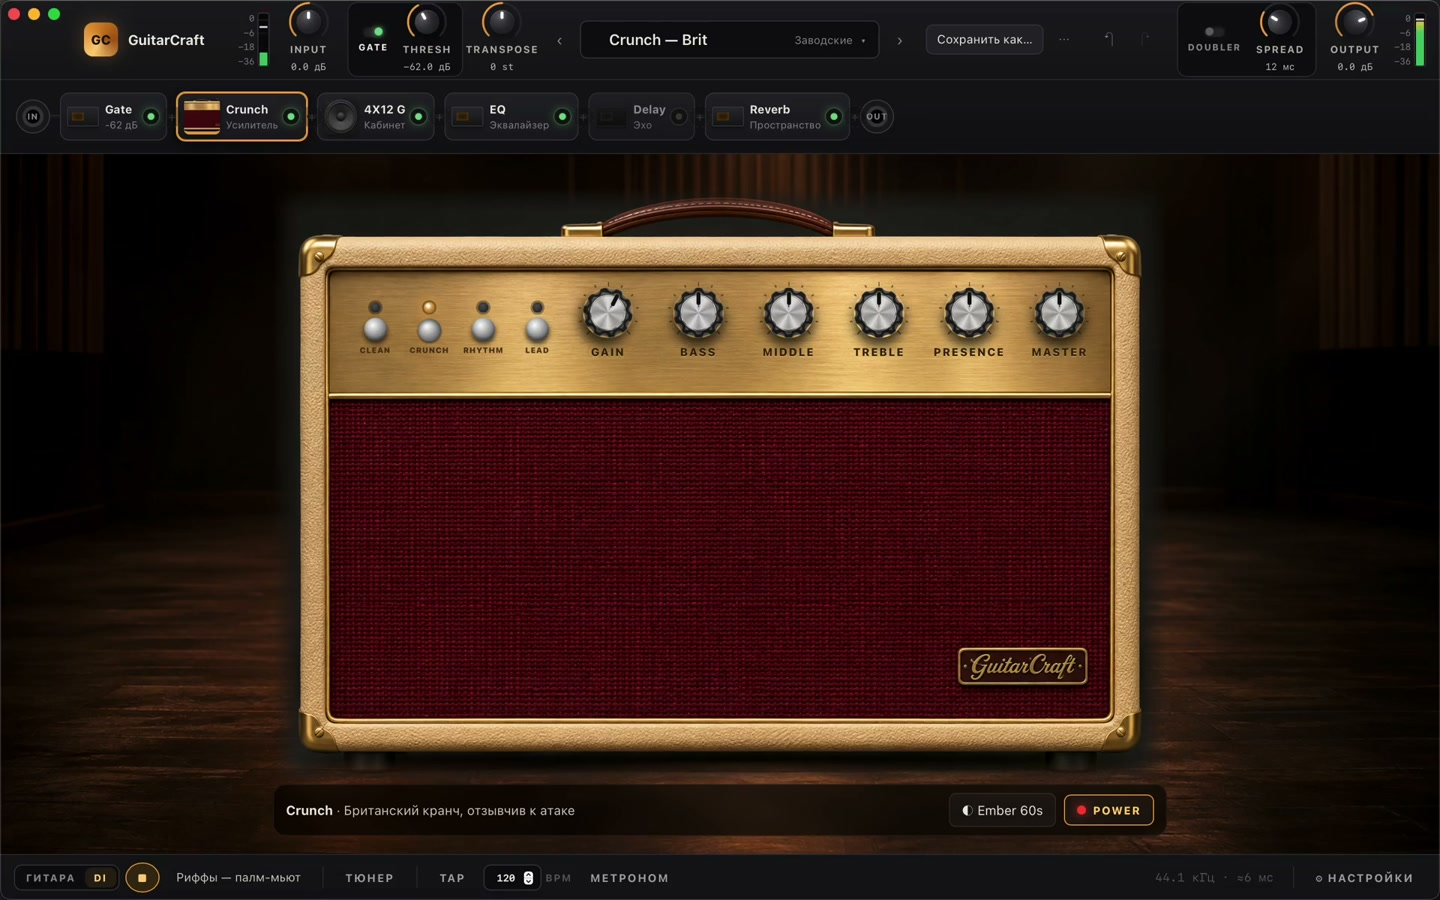
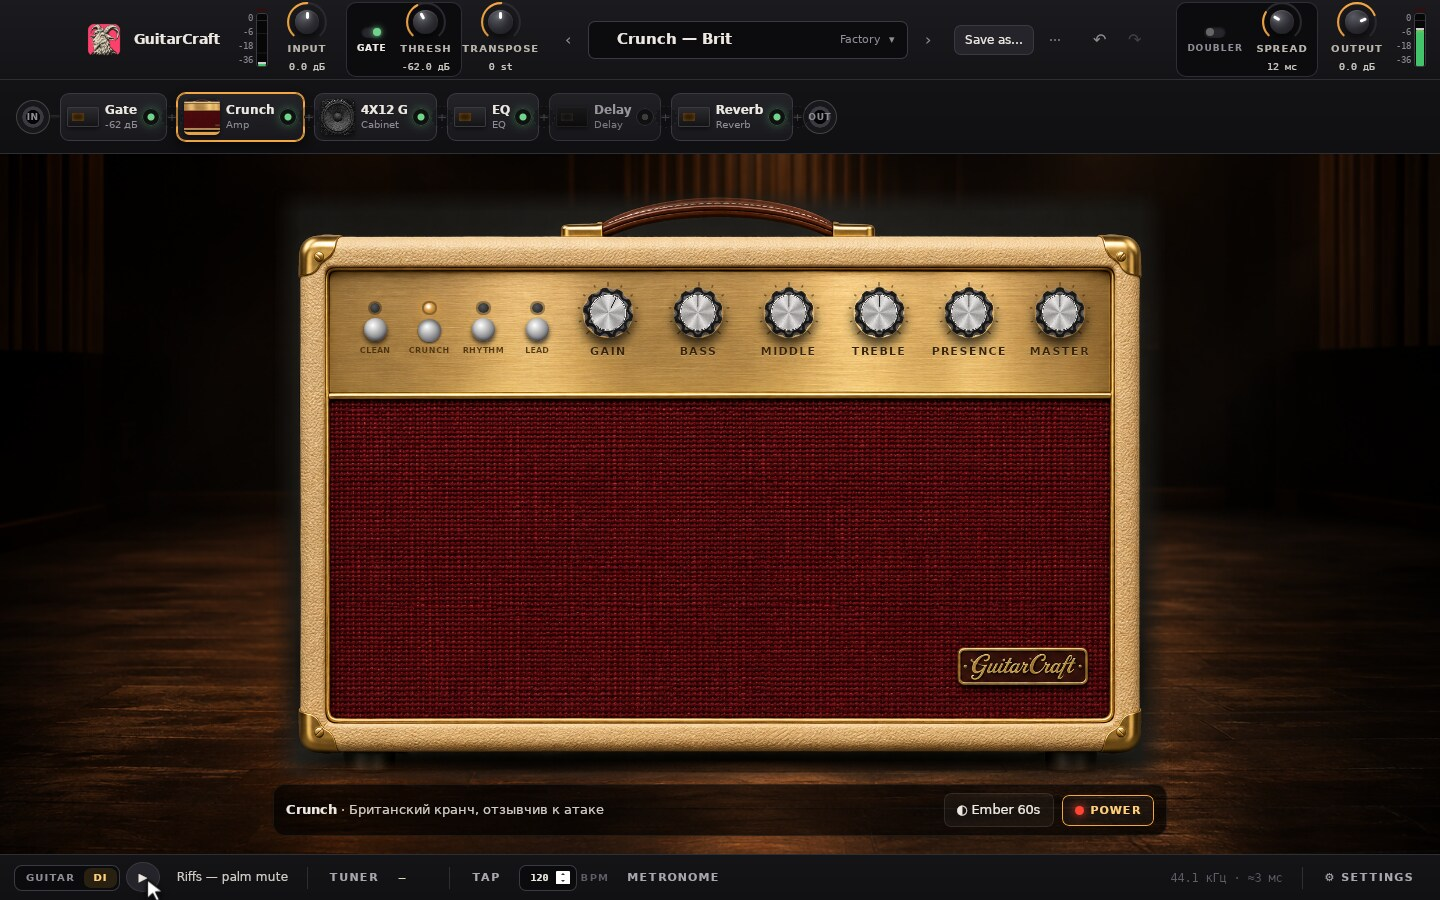
Show GuitarCraft features and installers in the product README

diff --git a/README.md b/README.md
@@ -1,8 +1,10 @@
+<img src="src-tauri/icons/128x128.png" width="76" height="76" alt="GuitarCraft icon">
+
 # GuitarCraft
 
 A desktop guitar amp and pedalboard with a Rust audio engine. Plug in a guitar, build a signal chain, and save the sound as a preset.
 
-[**Download GuitarCraft**](https://github.com/DimkaRapirka/GuitarCraft-Desktop/releases/latest) · [Features](#features) · [Get started](#get-started) · [Build from source](#build-from-source)
+[**Download GuitarCraft**](https://github.com/DimkaRapirka/GuitarCraft-Desktop/releases/latest) · [Features](#features) · [Get started](#get-started) · [Downloads](#downloads) · [Build from source](#build-from-source)
 
 <img src="docs/images/amplifier.jpg" width="100%" alt="GuitarCraft's amplifier studio with its signal chain and Crunch channel">
 
@@ -18,11 +20,16 @@ A desktop guitar amp and pedalboard with a Rust audio engine. Plug in a guitar, 
 
 ## Features
 
-### Build your signal chain
-
-Put a fuzz ahead of the amp or move an echo after the cabinet. Reorder blocks, bypass individual effects, and save the routing with your preset. Fuzz Factory includes Volume, Gate, Comp, Drive, and Stab.
-
-<img src="docs/images/pedalboard-prints.jpg" width="100%" alt="Stompboxes in GuitarCraft with illustrated faces, footswitches, and adjustable knobs">
+<table>
+  <tr>
+    <td width="59%"><img src="docs/images/pedalboard.jpg" alt="Pedalboard with Clari(not) Clean, Fuzz Factory, and Crown Drive"></td>
+    <td width="41%"><h3>Build your signal chain</h3><p>Put a fuzz ahead of the amp or move an echo after the cabinet. Reorder blocks, bypass individual effects, and save the routing with your preset.</p></td>
+  </tr>
+  <tr>
+    <td width="59%"><img src="docs/images/catalog.jpg" alt="Fuzz Factory selected in the searchable pedal catalog, with the audition and add buttons visible"></td>
+    <td width="41%"><h3>Audition a pedal in context</h3><p>Search by name or effect, then hear the pedal in your rig before adding it. Fuzz Factory gives you Volume, Gate, Comp, Drive, and Stab.</p></td>
+  </tr>
+</table>
 
 ### Voice the amp and cabinet
 
@@ -48,9 +55,9 @@ Enable the local MCP server in Settings to let a compatible client find pedals, 
 | --- | --- | --- |
 | macOS · Apple Silicon | DMG | Open the image and drag GuitarCraft to Applications. The bundle uses ad hoc signing. |
 | Windows · x64 | EXE | Run the installer. It uses Microsoft WebView2. |
-| Linux · x86-64 | DEB | Install on Ubuntu 22.04 or on a compatible Debian-based system with WebKitGTK 4.1. |
+| Linux · x86-64 | DEB | On Ubuntu 22.04 or a compatible Debian-based system, run `sudo apt install ./GuitarCraft_0.10.0_amd64.deb`. |
 
-Find installers and SHA-256 checksums in the [latest release](https://github.com/DimkaRapirka/GuitarCraft-Desktop/releases/latest).
+Find the installers and SHA-256 checksums in the [latest release](https://github.com/DimkaRapirka/GuitarCraft-Desktop/releases/latest).
 
 ## Build from source
 
@@ -63,3 +70,7 @@ npm run bundle
 ```
 
 The desktop shell uses Tauri and WebAssembly. The Rust audio engine processes the signal locally through Core Audio, WASAPI, or ALSA. Installers include the GuitarCraft MCP sidecar.
+
+## Interface languages
+
+GuitarCraft opens in English by default. Choose **English** or **Русский** under **Settings → Language**. GuitarCraft applies the selection the next time it starts. Translation catalogs live in [`crates/gc-ui/locales`](crates/gc-ui/locales).
